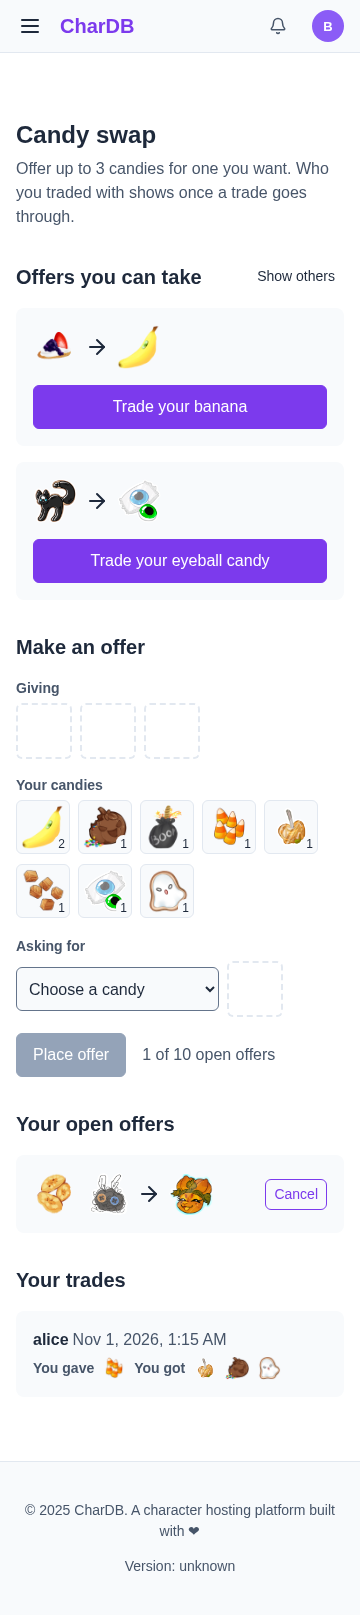
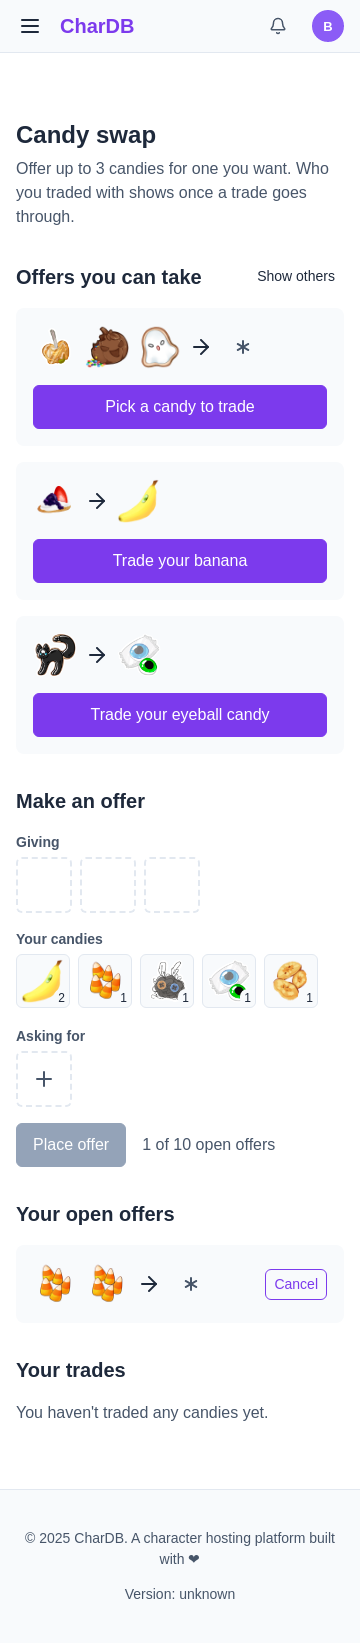
docs(halloween): candy swap walkthrough for pictures and offers for anything

diff --git a/docs/docs/halloween-candy-swap.html b/docs/docs/halloween-candy-swap.html
@@ -212,7 +212,8 @@
             community sidebar opens the swap page.
           </p>
           <p>
-            You put up one to three candies for one kind you want. Other players
+            You put up one to three candies for one kind you want, or for
+            anything at all. Other players
             see your offer without your name on it, and take it if they have
             what you asked for. Once a trade goes through, both of you see whom
             it was with.
@@ -226,7 +227,7 @@
         <div class="screenshot wide">
           <img
             src="candy-swap-overview.png"
-            alt="The Candy swap page. Offers you can take shows three cards: black cat cookie for eyeball candy, berry tart for banana, and caramel apple, bitten pumpkin and ghost cookie for candy corn, each with a Trade your button. Below are Make an offer, Your open offers and Your trades."
+            alt="The Candy swap page. Offers you can take shows three cards: black cat cookie for eyeball candy, berry tart for banana, and caramel apple, bitten pumpkin and ghost cookie for anything, shown as an asterisk. Below is Make an offer, with an empty Asking for slot."
           />
           <div class="screenshot-caption">The swap page</div>
         </div>
@@ -250,13 +251,26 @@
             one candy of the wanted kind, one that isn't on a board if you have
             one, and get everything on the card.
           </p>
+          <p>
+            An asterisk in place of the wanted candy means the offer takes any
+            kind. <strong>Pick a candy to trade</strong> opens your spare
+            candies; tap the one to give and the trade goes through. Kinds the
+            offer gives are greyed out.
+          </p>
         </div>
         <div class="screenshot wide">
           <img
             src="candy-swap-offers.png"
-            alt="Offers you can take, with a Show others button. Three cards each show the offered candies, an arrow, the wanted candy, and a purple Trade your button."
+            alt="Offers you can take, with a Show others button. Two cards show offered candies, an arrow and the wanted candy with a Trade your button; the third ends in an asterisk and has a Pick a candy to trade button."
           />
           <div class="screenshot-caption">Offers for candies you have</div>
+        </div>
+        <div class="screenshot wide">
+          <img
+            src="candy-swap-trade-picker.png"
+            alt="The Trade a candy dialog over the swap page, showing banana, candy corn, dust bunny, eyeball candy and golden cookies, each with how many you have."
+          />
+          <div class="screenshot-caption">Choosing what to give for anything</div>
         </div>
         <div class="step-content">
           <p>
@@ -284,9 +298,24 @@
             Under <strong>Make an offer</strong>, tap candies in
             <strong>Your candies</strong> to put them in the three
             <strong>Giving</strong> places, and tap one there to take it back.
-            Then pick the kind you want under <strong>Asking for</strong> and
+            Then tap the <strong>Asking for</strong> slot, pick a candy, and
             press <strong>Place offer</strong>.
           </p>
+          <p>
+            The picker shows every candy, with a count on the ones you have.
+            The asterisk at the start asks for anything: handy when you have
+            too many of one kind and don't mind what comes back. Picking your
+            current choice again clears it.
+          </p>
+        </div>
+        <div class="screenshot wide">
+          <img
+            src="candy-swap-ask-picker.png"
+            alt="The Ask for a candy dialog: a grid of candy pictures starting with an asterisk, counts on the candies you hold, and candy corn greyed out because it is being given."
+          />
+          <div class="screenshot-caption">Picking what to ask for</div>
+        </div>
+        <div class="step-content">
           <ul>
             <li>One to three candies, for exactly one.</li>
             <li>
@@ -304,9 +333,9 @@
         <div class="screenshot wide">
           <img
             src="candy-swap-make-offer.png"
-            alt="Make an offer: golden cookies and dust bunny in two of the three Giving places, the candy tray below, daphne head chosen under Asking for, and a Place offer button beside 0 of 10 open offers."
+            alt="Make an offer: two candy corns in two of the three Giving places, the candy tray below, an asterisk under Asking for, and a Place offer button beside 0 of 10 open offers."
           />
-          <div class="screenshot-caption">Two candies for a daphne head</div>
+          <div class="screenshot-caption">Two candy corns for anything</div>
         </div>
       </div>
 
@@ -326,7 +355,7 @@
         <div class="screenshot wide">
           <img
             src="candy-swap-open-offers.png"
-            alt="Your open offers: golden cookies and dust bunny for a daphne head, with a Cancel button."
+            alt="Your open offers: two candy corns for anything, with a Cancel button."
           />
           <div class="screenshot-caption">An offer waiting to be taken</div>
         </div>
@@ -334,9 +363,12 @@
           <div class="highlight-box">
             <strong>Mirror offers trade themselves.</strong> If you offer one
             candy for one, and someone already offers exactly what you want for
-            exactly what you're giving, the trade happens as you place it. With
-            several such offers, one is picked at random. Offers of two or three
-            candies only trade when someone takes them.
+            exactly what you're giving, the trade happens as you place it. An
+            offer for anything counts: one candy for anything matches an offer
+            asking for that candy, and the other way round. Two offers for
+            anything never match each other. With several matches, one is
+            picked at random. Offers of two or three candies only trade when
+            someone takes them.
           </div>
         </div>
       </div>
@@ -394,7 +426,7 @@
         <div class="screenshot narrow">
           <img
             src="candy-swap-phone.png"
-            alt="The swap page at phone width: offers stacked one per row, the candy tray wrapping onto two lines, then open offers and trades."
+            alt="The swap page at phone width: offers stacked one per row, the candy tray, the Asking for slot, then open offers and trades."
           />
           <div class="screenshot-caption">At 360px wide</div>
         </div>

diff --git a/docs/index.html b/docs/index.html
@@ -458,7 +458,8 @@
             <div class="doc-content">
               <h3>Halloween Candy Swap</h3>
               <p>
-                Offering candies for one you want, taking other players' offers,
+                Offering candies for one you want or for anything, taking other
+                players' offers,
                 and seeing whom you traded with.
               </p>
             </div>
